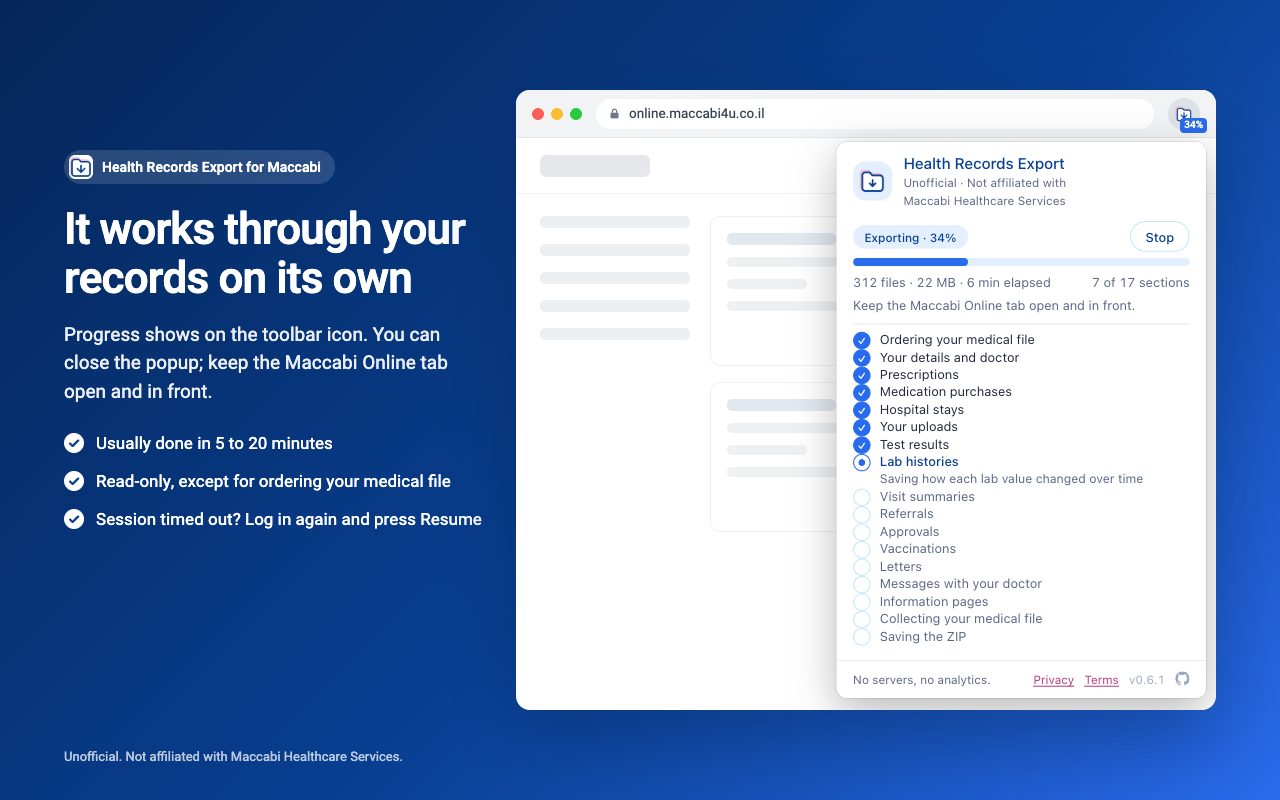
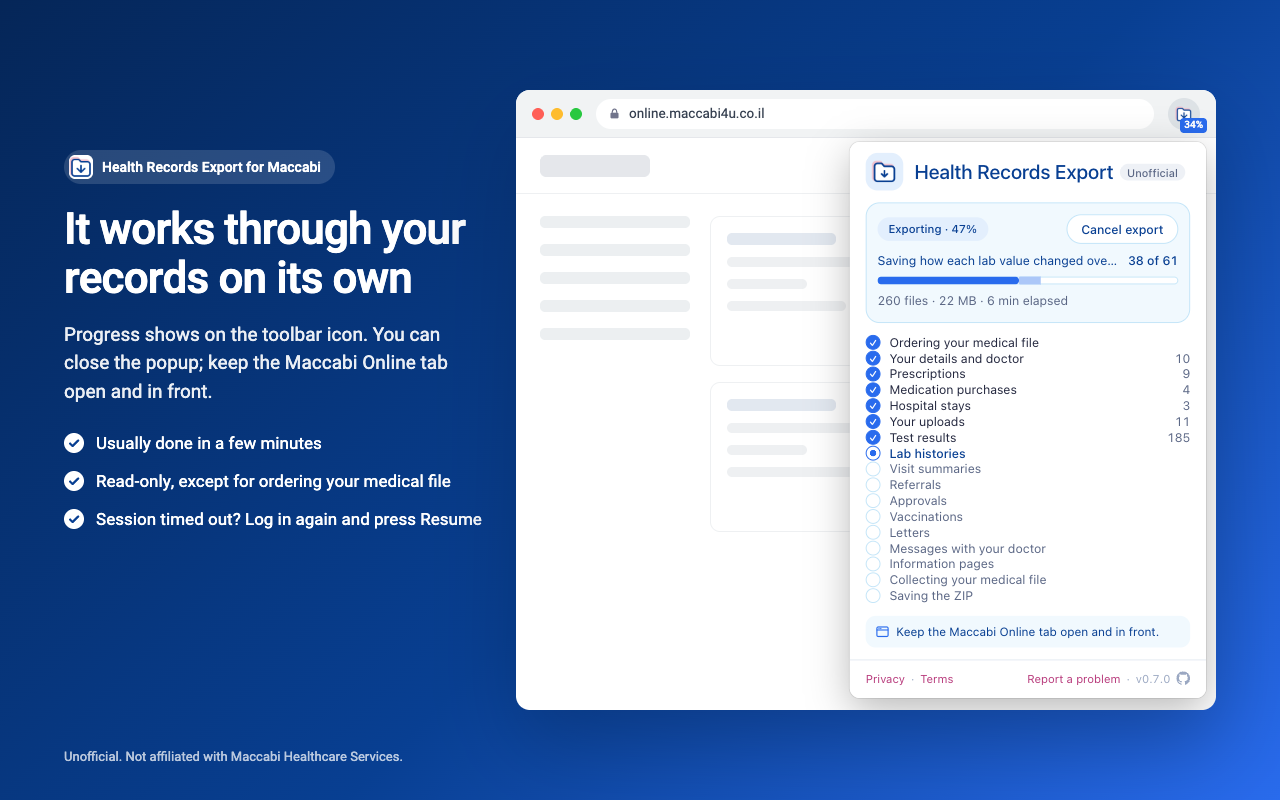
Link the re-rendered promo video, and refresh the store images and poster for 0.7.0

diff --git a/docs/store-listing.md b/docs/store-listing.md
@@ -122,7 +122,7 @@ Unofficial. Not affiliated with, endorsed by or sponsored by Maccabi Healthcare 
 | Screenshot 5 | `store/assets/screenshot-5-privacy.png` | "Private by design": your records stop at your computer, with the popup's list of what's included |
 | Small promo tile (440×280) | `store/assets/promo-small-440x280.png` | The icon's artwork on a blue background, with no text |
 | Marquee promo tile (1400×560) | `store/assets/promo-marquee-1400x560.png` | The same artwork beside the name and "Ask an AI assistant about your Maccabi health records". Optional: the store uses it only when it features the extension |
-| Global promo video | https://youtu.be/tQkiFCoZLBg | Optional. See [Promo video](#promo-video) below |
+| Global promo video | https://youtu.be/zY5TxwlsGjs | Optional. See [Promo video](#promo-video) below |
 
 The screenshots are 1280×800 PNG files with no transparency. What the member gets comes first, and how they get
 there follows: upload them in this order. They show the real popup in made-up states over a placeholder page, never a
@@ -133,7 +133,7 @@ real account. Screenshot 1 draws an AI assistant instead, plain enough to be no 
 ### Promo video
 
 The store's video field takes a **YouTube link**, not a file. The one to paste is
-**https://youtu.be/tQkiFCoZLBg**, on the [Hey Roni](https://www.youtube.com/@Hey-Roni-Dev) channel, with the title
+**https://youtu.be/zY5TxwlsGjs**, on the [Hey Roni](https://www.youtube.com/@Hey-Roni-Dev) channel, with the title
 and description [below](#on-youtube). `npm run store-video` renders the video to `store/assets/promo-video.mp4`
 (3840×2160, 60 fps, 61 seconds, with narration). YouTube can't swap the file under a link, so a re-render is a
 new upload with a new link: paste it on the dashboard and put it in the README, in place of the one above.

diff --git a/README.md b/README.md
@@ -22,13 +22,13 @@ earliest visit. It helps you understand your records and prepare for your doctor
 </p>
 
 <p align="center">
-  <a href="https://youtu.be/tQkiFCoZLBg">
+  <a href="https://youtu.be/zY5TxwlsGjs">
     <img src="store/assets/video-poster.png" alt="Watch an export, start to finish: a one-minute video" width="720">
   </a>
 </p>
 
 <p align="center">
-  ▶ <a href="https://youtu.be/tQkiFCoZLBg">Watch an export, start to finish</a> · 1 minute, narrated
+  ▶ <a href="https://youtu.be/zY5TxwlsGjs">Watch an export, start to finish</a> · 1 minute, narrated
 </p>
 
 - **Ready for your AI assistant.** Open the folder in the Claude desktop app, Claude Code, ChatGPT Work or Codex, and the
